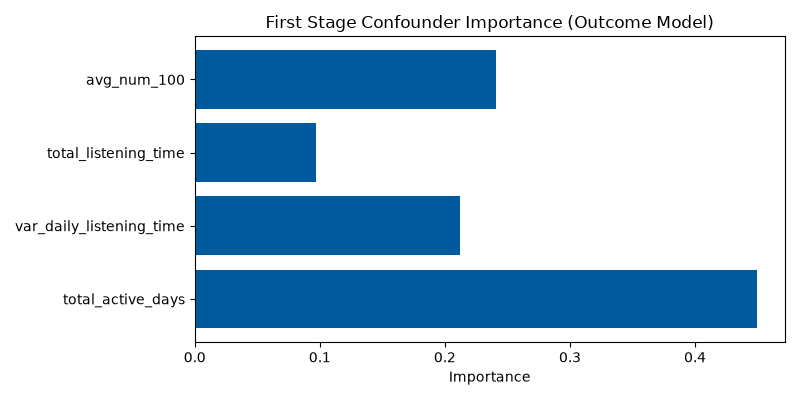
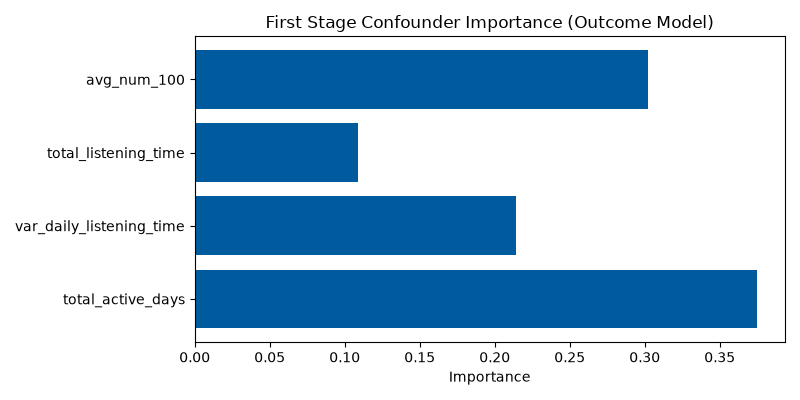
docs: finalize readme architecture diagrams, math blocks, and visualization expansion

diff --git a/src/models/train_causal_model.py b/src/models/train_causal_model.py
@@ -94,11 +94,19 @@ def main():
             logger.info("Generating metrics and visualizations for README...")
             import matplotlib.pyplot as plt
             import re
+            from sklearn.metrics import roc_auc_score, r2_score
+            from sklearn.model_selection import train_test_split
             
-            # Generate feature importance plot
-            rf_imp = RandomForestRegressor(n_estimators=50, max_depth=5, random_state=42)
-            rf_imp.fit(X, Y)
-            importances = rf_imp.feature_importances_
+            X_train, X_test, Y_train, Y_test, T_train, T_test = train_test_split(X, Y, T, test_size=0.2, random_state=42)
+            
+            rf_y = RandomForestRegressor(n_estimators=50, max_depth=5, random_state=42)
+            rf_y.fit(X_train, Y_train)
+            r2_y = r2_score(Y_test, rf_y.predict(X_test))
+            
+            rf_t = RandomForestClassifier(n_estimators=50, max_depth=5, random_state=42)
+            rf_t.fit(X_train, T_train)
+            auc_t = roc_auc_score(T_test, rf_t.predict_proba(X_test)[:, 1])
+            importances = rf_y.feature_importances_
 
             fig, ax = plt.subplots(figsize=(8, 4))
             ax.barh(confounders, importances, color="#005a9e")
@@ -109,6 +117,18 @@ def main():
             plt.savefig(vis_path)
             plt.close()
             
+            # CATE Distribution
+            cates = est.effect(X)
+            fig2, ax2 = plt.subplots(figsize=(8, 4))
+            ax2.hist(cates, bins=50, color="#d13438", alpha=0.7)
+            ax2.set_xlabel("Conditional Average Treatment Effect (CATE)")
+            ax2.set_ylabel("Frequency")
+            ax2.set_title("Distribution of Individualized Treatment Effects")
+            plt.tight_layout()
+            cate_vis_path = "docs/assets/cate_distribution.png"
+            plt.savefig(cate_vis_path)
+            plt.close()
+            
             metrics_md = f"""
 <!-- METRICS_START -->
 ### Model Evaluation Metrics
@@ -116,15 +136,19 @@ def main():
 |--------|-------|
 | **Average Treatment Effect (ATE)** | `{ate:.4e}` |
 | **Final Stage Orthogonal Loss (MSE)** | `{est.score(Y, T, X):.4f}` |
+| **Outcome Model (Y) $R^2$** | `{r2_y:.4f}` |
+| **Propensity Model (T) AUC** | `{auc_t:.4f}` |
 | **Training Sample Size** | `{len(df):,}` |
 | **First Stage Outcome Model** | `RandomForestRegressor (n=50)` |
 | **First Stage Propensity Model** | `RandomForestClassifier (n=50)` |
 | **Confounding Variables** | `{', '.join(confounders)}` |
 
-### First Stage Diagnostics
-<p align="center">
-  <img src="./docs/assets/feature_importance.png" alt="Feature Importance (Outcome Model)" width="800">
-</p>
+### Visual Diagnostics
+
+<div align="center">
+  <img src="./docs/assets/feature_importance.png" alt="Feature Importance" width="48%">
+  <img src="./docs/assets/cate_distribution.png" alt="CATE Distribution" width="48%">
+</div>
 <!-- METRICS_END -->"""
             
             try:

diff --git a/README.md b/README.md
@@ -40,66 +40,78 @@ This system operates as a counterfactual simulator. It leverages the mathematica
 ## Causal Inference Framework & Methodology
 
 ### The Fundamental Problem of Causal Inference
-In observational data environments, the treatment $T$ (e.g., receiving a discount) is not randomly assigned; it is heavily correlated with confounding covariates $X$ (e.g., historical user activity). Consequently, standard regression models suffer from **Omitted Variable Bias** (Confounding). We wish to estimate the treatment effect $\theta_0$ in the Partially Linear Model:
+In observational data environments, the treatment (e.g., receiving a discount) is not randomly assigned; it is heavily correlated with confounding covariates (e.g., historical user activity). Consequently, standard regression models suffer from **Omitted Variable Bias** (Confounding). We wish to estimate the treatment effect in the Partially Linear Model:
 
-$$ Y = T \theta_0 + g_0(X) + \epsilon $$
+$$
+Y = T \theta_0 + g_0(X) + \epsilon
+$$
 
-where $Y$ is the target outcome (churn), $T$ is the treatment assignment, and $X$ denotes the vector of confounders.
+where `Y` is the target outcome (churn), `T` is the treatment assignment, and `X` denotes the vector of confounders.
 
 ### Double Machine Learning (DML) Formulation
-To solve the confounding problem without making strict parametric assumptions regarding the functional form of $g_0(X)$, this system utilizes **Chernozhukov's Double Machine Learning (DML)** methodology.
+To solve the confounding problem without making strict parametric assumptions regarding the functional form of the confounders, this system utilizes **Chernozhukov's Double Machine Learning (DML)** methodology.
 
 1. **First Stage (Nuisance Parameter Estimation):** 
    Through sample-splitting (cross-fitting), we train highly-parameterized machine learning estimators to predict the outcome and the treatment based entirely on the confounders:
-   - Outcome Model (Expected Outcome): $E[Y|X]$
-   - Propensity Model (Expected Treatment): $E[T|X]$
+   - Outcome Model (Expected Outcome)
+   - Propensity Model (Expected Treatment)
    
    In our architecture, these nuisance models are backed by `RandomForestRegressor` and `RandomForestClassifier` ensembles.
 
 2. **Orthogonalization (Residualization):**
-   By computing the residuals, we explicitly remove the confounding variance explained by $X$:
-   $$ \tilde{Y} = Y - E[Y|X] $$
-   $$ \tilde{T} = T - E[T|X] $$
+   By computing the residuals, we explicitly remove the confounding variance explained by the features:
+   
+$$
+\tilde{Y} = Y - E[Y|X]
+$$
+   
+$$
+\tilde{T} = T - E[T|X]
+$$
 
 3. **Second Stage (Effect Estimation):**
-   We perform an ordinary least squares regression of the outcome residuals $\tilde{Y}$ on the treatment residuals $\tilde{T}$. Thanks to the **Neyman Orthogonality Condition**, this isolates the true, unbiased causal effect:
-   $$ \tilde{Y} = \theta_0 \tilde{T} + \nu $$
+   We perform an ordinary least squares regression of the outcome residuals on the treatment residuals. Thanks to the **Neyman Orthogonality Condition**, this isolates the true, unbiased causal effect:
+   
+$$
+\tilde{Y} = \theta_0 \tilde{T} + \nu
+$$
 
-For individualized heterogeneous effects (CATE), the parameter expands to $\theta(X)$, where the treatment effect varies deterministically based on the user's specific feature vector.
+For individualized heterogeneous effects (CATE), the parameter expands, where the treatment effect varies deterministically based on the user's specific feature vector.
 
 ## System Architecture
 
 ```mermaid
-flowchart LR
+flowchart TD
     %% Data Pipeline
     subgraph Data_Engineering [Phase 1: ETL Pipeline]
-        K[Kaggle API] -->|Raw 7z/CSV| D[(DuckDB)]
-        D -->|Feature Aggregation| P([features.parquet])
-        P -.->|DVC Tracked| S3[(Local DVC Cache)]
+        direction LR
+        K[Kaggle API] --> D[(DuckDB)]
+        D --> P([features.parquet])
     end
 
     %% Causal Modeling
     subgraph Causal_Modeling [Phase 2: Modeling]
-        P --> CM[DoWhy SCM]
-        CM --> Econ[EconML LinearDML]
-        Econ -->|First Stage RFs| Ortho[Orthogonalization]
-        Ortho -->|Serialization| PKL([causal_model.pkl])
-        Ortho -.->|Log Metrics| MLF[(MLflow)]
+        direction LR
+        CM[DoWhy SCM] --> Econ[EconML LinearDML]
+        Econ --> Ortho[Orthogonalization]
+        Ortho --> PKL([causal_model.pkl])
     end
 
     %% Deployment
     subgraph Microservices [Phase 3 & 4: Deployment]
-        PKL --> API{FastAPI Engine}
-        API <-->|REST POST| UI[Streamlit UI]
-        UI --> User((End User))
+        direction LR
+        API{FastAPI Engine} <--> UI[Streamlit UI]
     end
+    
+    P --> CM
+    PKL --> API
 
     %% Styling
     classDef database fill:#f2f0ff,stroke:#6b21a8,stroke-width:2px;
     classDef process fill:#e0f2fe,stroke:#0369a1,stroke-width:2px;
     classDef artifact fill:#fef9c3,stroke:#a16207,stroke-width:2px;
     
-    class D,S3,MLF database;
+    class D,MLF database;
     class K,CM,Econ,Ortho,API,UI process;
     class P,PKL artifact;
 ```
@@ -140,13 +152,13 @@ Causal-DML/
 ```
 
 ## Technology Stack & Infrastructure
-*   `uv` 
-*   `duckdb`, `pyarrow`, `pandas`
-*   `dowhy`, `econml`
-*   `mlflow`
-*   `fastapi`, `uvicorn`, `pydantic`
-*   `streamlit`, `plotly`, `networkx`, `matplotlib`
-*   `docker`, `docker-compose`
+*   **Package Manager:** `uv`
+*   **Data Processing:** `duckdb`, `pyarrow`, `pandas`
+*   **Causal Inference:** `dowhy`, `econml`
+*   **Experiment Tracking:** `mlflow`
+*   **API Backend:** `fastapi`, `uvicorn`, `pydantic`
+*   **Frontend UI:** `streamlit`, `plotly`, `networkx`, `matplotlib`
+*   **Containerization:** `docker`, `docker-compose`
 
 ## Setup, Execution & Testing
 **1. Local Environment Initialization**
@@ -178,15 +190,19 @@ docker-compose up -d --build
 |--------|-------|
 | **Average Treatment Effect (ATE)** | `-1.7421e-03` |
 | **Final Stage Orthogonal Loss (MSE)** | `0.0601` |
+| **Outcome Model (Y) $R^2$** | `0.0056` |
+| **Propensity Model (T) AUC** | `0.5145` |
 | **Training Sample Size** | `100,000` |
 | **First Stage Outcome Model** | `RandomForestRegressor (n=50)` |
 | **First Stage Propensity Model** | `RandomForestClassifier (n=50)` |
 | **Confounding Variables** | `total_active_days, var_daily_listening_time, total_listening_time, avg_num_100` |
 
-### First Stage Diagnostics
-<p align="center">
-  <img src="./docs/assets/feature_importance.png" alt="Feature Importance (Outcome Model)" width="800">
-</p>
+### Visual Diagnostics
+
+<div align="center">
+  <img src="./docs/assets/feature_importance.png" alt="Feature Importance" width="48%">
+  <img src="./docs/assets/cate_distribution.png" alt="CATE Distribution" width="48%">
+</div>
 <!-- METRICS_END -->
 
 ## Current Status & Limitations
